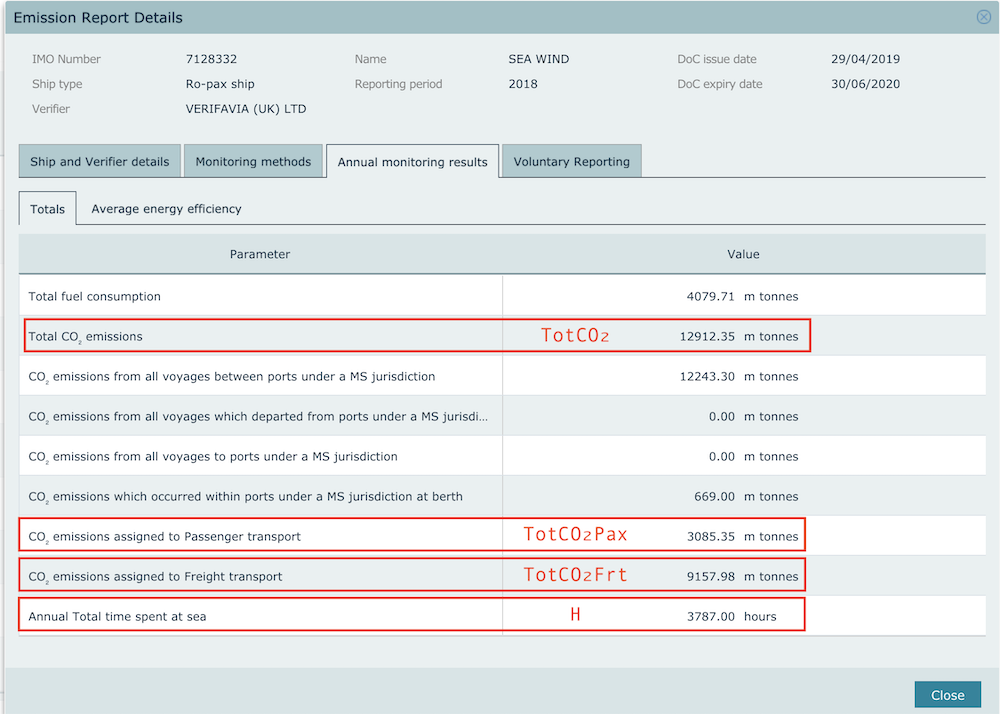
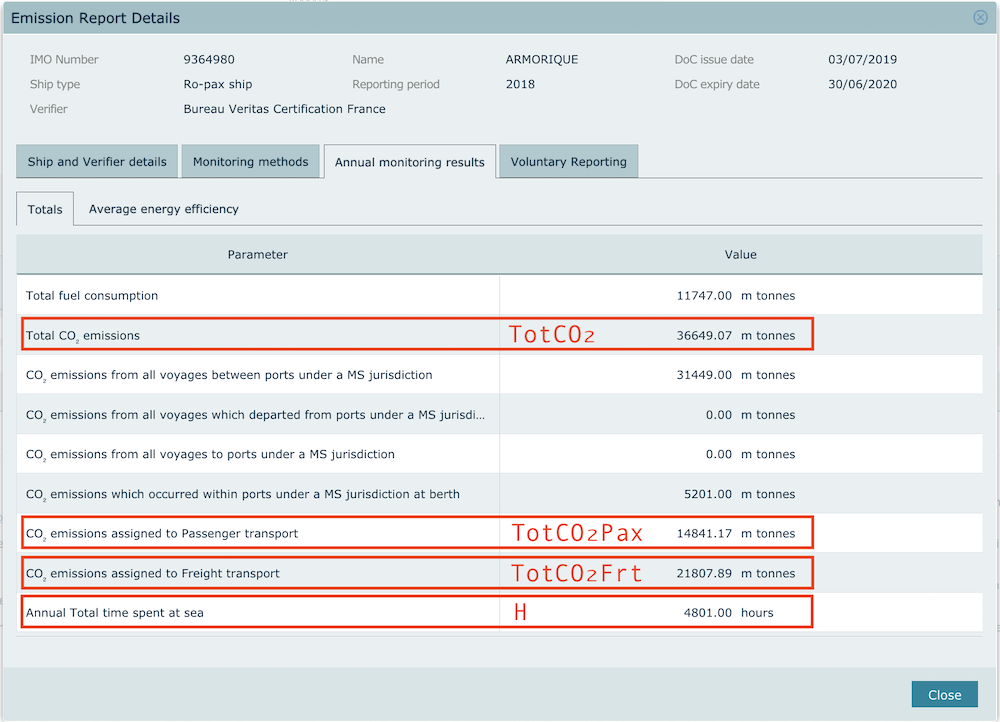
replace example ship for computations in doc - fix #16

diff --git a/www/src/components/ShipThetisDataTable.js b/www/src/components/ShipThetisDataTable.js
@@ -1,91 +1,114 @@
 import React from 'react'
-import { Box, Text, Icon, Tooltip, Link, Stack } from '@chakra-ui/core'
+import { Box, Text, Icon, Tooltip, Link, Stack, Alert, AlertIcon } from '@chakra-ui/core'
 import { Link as ReactLink } from 'react-router-dom'
 
 import smartRound from '../lib/smartRound'
 
 const ComputedIcon = () => (
   <Tooltip cursor='pointer' label='This was computed from the raw data, cf FAQ for formulas'>
-    <Icon name='info-outline' />
+    <Icon name='info-outline' color='blue' />
   </Tooltip>
 )
 
 const ShipThetisDataTable = ({ ship }) => (
   <Stack spacing={3}>
     <Box>
-      <Text as='h3' paddingX={{ base: 3, md: 0 }}>THETIS Statistics:</Text>
-      <table className='data-table'>
-        <thead>
-          <tr><th colSpan={4}>2018 yearly CO₂ Emissions</th></tr>
-          <tr>
-            <th>assigned to</th>
-            <th>total</th>
-            <th>average</th>
-            <th>ratio</th>
-          </tr>
-        </thead>
-        <tbody>
-          <tr>
-            <th>persons 🙎♀</th>
-            <td>{smartRound(ship.thetisAnnualCo2Pax)} tonnes CO₂</td>
-            <td>{smartRound(ship.thetisAverageCo2PerPax)} g·CO₂/pax/n.mile</td>
-            <td>{smartRound(ship.thetisAnnualComputedRatioCo2FromPax * 100)}% <ComputedIcon /></td>
-          </tr>
-          <tr>
-            <th>freight 🚛</th>
-            <td>{smartRound(ship.thetisAnnualCo2Freight)} tonnes CO₂</td>
-            <td>{smartRound(ship.thetisAverageCo2PerFreight)} kg·CO₂/m tonne/n.mile</td>
-            <td>{smartRound((1 - ship.thetisAnnualComputedRatioCo2FromPax) * 100)}% <ComputedIcon /></td>
-          </tr>
-          <tr>
-            <th>total</th>
-            <td>{smartRound(ship.thetisAnnualCo2Total)} tonnes CO₂</td>
-            <td>
-              {smartRound(ship.thetisAverageCo2PerDistance)} kg·CO₂/n.mile<br />
-              {/* or {Math.round(ship.thetisAverageCo2PerDistance / 1.852001)} kg·CO₂/km */}
-            </td>
-            <td>100%</td>
-          </tr>
-        </tbody>
-      </table>
+      <Text as='h3' paddingX={{ base: 3, md: 0 }}>Ship Statistics:</Text>
     </Box>
-    <Box>
-      <table className='data-table'>
-        <thead>
-          <tr>
-            <th colSpan={2}>2018 yearly statistics</th>
-          </tr>
-        </thead>
-        <tbody>
-          <tr>
-            <th>persons 🙎♀</th>
-            <td>{smartRound(ship.thetisAnnualComputedPax)} persons transported <ComputedIcon /></td>
-          </tr>
-          <tr>
-            <th>freight 🚛</th>
-            <td>{smartRound(ship.thetisAnnualComputedFreight)} metric tonnes transported <ComputedIcon /></td>
-          </tr>
-          <tr>
-            <th>distance travelled</th>
-            <td>{smartRound(ship.thetisAnnualComputedDistanceKm)} km <ComputedIcon /></td>
-          </tr>
-          <tr>
-            <th>time at sea</th>
-            <td>{smartRound(ship.thetisAnnualHoursAtSea)} hours</td>
-          </tr>
-          <tr>
-            <th>average speed</th>
-            <td>{smartRound(ship.thetisAnnualComputedAverageSpeed)} km/h <ComputedIcon /></td>
-          </tr>
-        </tbody>
-      </table>
-    </Box>
-    <Box paddingX={{ base: 3, md: 0 }}>
-      Figures with the <Icon name='info-outline' /> icon were computed based on the published data. You can find computation details
-      {' '}
-      <Link as={ReactLink} to='/computed-statistics'>
-        on this page
-      </Link>
+    <Stack spacing={3}>
+      <Box>
+        <table className='data-table'>
+          <thead>
+            <tr><th colSpan={4}>2018 yearly CO₂ Emissions</th></tr>
+            <tr>
+              <th>assigned to</th>
+              <th>total</th>
+              <th>average</th>
+              <th>ratio</th>
+            </tr>
+          </thead>
+          <tbody>
+            <tr>
+              <th>persons 🙎♀</th>
+              <td>{smartRound(ship.thetisAnnualCo2Pax)} tonnes CO₂</td>
+              <td>{smartRound(ship.thetisAverageCo2PerPax)} g·CO₂/pax/n.mile</td>
+              <td>{smartRound(ship.thetisAnnualComputedRatioCo2FromPax * 100)}% <ComputedIcon /></td>
+            </tr>
+            <tr>
+              <th>freight 🚛</th>
+              <td>{smartRound(ship.thetisAnnualCo2Freight)} tonnes CO₂</td>
+              <td>{smartRound(ship.thetisAverageCo2PerFreight)} kg·CO₂/m tonne/n.mile</td>
+              <td>{smartRound((1 - ship.thetisAnnualComputedRatioCo2FromPax) * 100)}% <ComputedIcon /></td>
+            </tr>
+            <tr>
+              <th>total</th>
+              <td>{smartRound(ship.thetisAnnualCo2Total)} tonnes CO₂</td>
+              <td>
+                {smartRound(ship.thetisAverageCo2PerDistance)} kg·CO₂/n.mile<br />
+                {/* or {Math.round(ship.thetisAverageCo2PerDistance / 1.852001)} kg·CO₂/km */}
+              </td>
+              <td>100%</td>
+            </tr>
+          </tbody>
+        </table>
+      </Box>
+      <Box>
+        <table className='data-table'>
+          <thead>
+            <tr>
+              <th colSpan={2}>2018 yearly statistics</th>
+            </tr>
+          </thead>
+          <tbody>
+            <tr>
+              <th>distance travelled</th>
+              <td>{smartRound(ship.thetisAnnualComputedDistanceKm)} km <ComputedIcon /></td>
+            </tr>
+            <tr>
+              <th>time at sea</th>
+              <td>{smartRound(ship.thetisAnnualHoursAtSea)} hours</td>
+            </tr>
+          </tbody>
+        </table>
+      </Box>
+      <Box>
+        <table className='data-table'>
+          <thead>
+            <tr>
+              <th colSpan={2}>2018 average statistics per journey</th>
+            </tr>
+          </thead>
+          <tbody>
+            <tr>
+              <th>average persons transported 🙎♀</th>
+              <td>{smartRound(ship.thetisAnnualComputedPax)} persons <ComputedIcon /></td>
+            </tr>
+            <tr>
+              <th>average freight transported 🚛</th>
+              <td>{smartRound(ship.thetisAnnualComputedFreight)} metric tonnes <ComputedIcon /></td>
+            </tr>
+            <tr>
+              <th>average speed</th>
+              <td>{smartRound(ship.thetisAnnualComputedAverageSpeed)} km/h <ComputedIcon /></td>
+            </tr>
+          </tbody>
+        </table>
+      </Box>
+    </Stack>
+
+    <Box p={{ base: 3, md: 0 }}>
+      <Alert status='info' maxWidth='30rem'>
+        <AlertIcon />
+        <Box>
+          <Text m={0}>
+            Figures with the <Icon name='info-outline' /> icon were computed based on the published data. You can find computation details
+            {' '}
+            <Link as={ReactLink} to='/computed-statistics'>
+              on this page
+            </Link>
+          </Text>
+        </Box>
+      </Alert>
     </Box>
   </Stack>
 )

diff --git a/www/src/components/ComputedStatsPage.js b/www/src/components/ComputedStatsPage.js
@@ -17,44 +17,44 @@ You can find the published data on [THETIS publicly accessible platform](https:/
 
 ### Distance travelled
 
-\`TotDst = TotCO₂ / AvgCO₂Pax\`
+\`TotDst = TotCO₂ / AvgCO₂Dst\`
 
 *ie.* total emitted CO₂ / average CO₂ emitted per distance
 
-*eg.* for the [Sea Wind](/ships/m-s-sea-wind-7128332) ship in the picture:
+*eg.* for the [Armorique](/ships/armorique-9364980) ship:
 
-\`(12912.35 m tonnes * 1000) / (265.00 kg CO₂ / n mile) ~= 48725 n miles ~= 90239 km\`
+\`TotDst = (36649.07 m tonnes * 1000) / (517.37 kg CO₂ / n mile) ~= 70837 n miles ~= 131191 km\`
 
-### Persons transported
+### Average number of persons transported
 
-\`TotPax = TotCO₂Pax / (AvgCO₂PaxDst * TotDst)\`
+\`AvgPax = TotCO₂Pax / (AvgCO₂PaxDst * TotDst)\`
 
-*ie.* total emitted CO₂ assigned to persons transport / (average CO₂ emitted per distance per person * distance)
+*ie.* total emitted CO₂ assigned to persons transport / (average CO₂ emitted per distance per person * total distance travelled)
 
-*eg.* for the [Sea Wind](/ships/m-s-sea-wind-7128332) ship in the picture:
+*eg.* for the [Armorique](/ships/armorique-9364980) ship:
 
-\`(3085.35 m tonnes * 1000) / ((1873.44
-  g CO₂ / pax · n miles / 1000) * 48725 n miles) ~= 34 persons\`
+\`AvgPax = (14841.17 m tonnes * 1000) / ((398.98
+  g CO₂ / pax · n miles / 1000) * 70837 n miles) ~= 525 persons\`
 
-### Freight transported
+### Average freight transported
 
-\`TotFrt = TotCO₂Frt / (AvgCO₂FrtDst * TotDst)\`
+\`AvgFrt = TotCO₂Frt / (AvgCO₂FrtDst * TotDst)\`
 
-*ie.* total emitted CO₂ assigned to freight transport / (average CO₂ emitted per metric ton of freight * distance)
+*ie.* total emitted CO₂ assigned to freight transport / (average CO₂ emitted per metric ton of freight * total distance travelled)
 
-*eg.* for the [Sea Wind](/ships/m-s-sea-wind-7128332) ship in the picture:
+*eg.* for the [Armorique](/ships/armorique-9364980) ship:
 
-\`9157.98 m tonnes * 1000 / ((172.77 g CO₂ / m tonnes · n miles / 1000) * 48725 n miles) ~= 1088 m tonnes\`
+\`AvgFrt = 21807.89 m tonnes * 1000 / ((514.06 g CO₂ / m tonnes · n miles / 1000) * 70837 n miles) ~= 599 m tonnes\`
 
 ### Average speed
 
 \`AvgSpd = TotDst / H\`
 
-*ie.* distance travelled / hours at sea
+*ie.* total distance travelled / hours at sea
 
-*eg.* for the [Sea Wind](/ships/m-s-sea-wind-7128332) ship in the picture:
+*eg.* for the [Armorique](/ships/armorique-9364980) ship:
 
-\`90239 km / 3787.00 hours ~= 24 km/h \`
+\`131191 km / 4801.00 hours ~= 27 km/h\`
 
 ### Ratio of emitted CO₂ assigned to passengers
 
@@ -62,9 +62,9 @@ You can find the published data on [THETIS publicly accessible platform](https:/
 
 *ie.* total emitted CO₂ assigned to persons transport / total emitted CO₂
 
-*eg.* for the [Sea Wind](/ships/m-s-sea-wind-7128332) ship in the picture:
+*eg.* for the [Armorique](/ships/armorique-9364980) ship:
 
-\`3085.35 m tonnes / 12912.35 m tonnes ~= 24%\`
+\`14841.17 m tonnes / 36649.07 m tonnes ~= 40%\`
 
 # Code
 

diff --git a/www/src/components/ShipPage.js b/www/src/components/ShipPage.js
@@ -38,7 +38,7 @@ const ShipPage = ({ ships, selectedShipRoute, setSelectedShipRoute, setSelectedR
 
   return (
     <>
-      <Box p={{ base: 3, md: 5 }}>
+      <Box paddingX={{ base: 3, md: 5 }}>
         <Link onClick={() => history.goBack()}>
         ◀ go back
         </Link>
@@ -118,10 +118,7 @@ const ShipPage = ({ ships, selectedShipRoute, setSelectedShipRoute, setSelectedR
           </ul>
         </Box>
       </Box>
-      <Box p={{ base: 0, md: 5 }}>
-        <ShipThetisDataTable ship={ship} />
-      </Box>
-      <Box p={{ base: 3, md: 5 }}>
+      <Box paddingX={{ base: 3, md: 5 }}>
         <Alert status='warning' maxWidth='30rem'>
           <AlertIcon />
           <Box>
@@ -137,6 +134,9 @@ const ShipPage = ({ ships, selectedShipRoute, setSelectedShipRoute, setSelectedR
             </Text>
           </Box>
         </Alert>
+      </Box>
+      <Box p={{ base: 0, md: 5 }}>
+        <ShipThetisDataTable ship={ship} />
       </Box>
     </>
   )

diff --git a/www/src/App.css b/www/src/App.css
@@ -2,6 +2,12 @@
   display: block;
 }
 
+@media screen and (max-width: 48em) {
+  .data-table {
+    width: 100%;
+  }
+}
+
 .data-table {
   border-collapse: collapse;
   border-spacing: 0px;
@@ -12,6 +18,10 @@
 }
 .data-table th {
   background-color: #ccc;
+  /* font-weight: bold; */
+}
+.data-table tbody th {
+  text-align: right;
   /* font-weight: bold; */
 }
 .data-table td {
